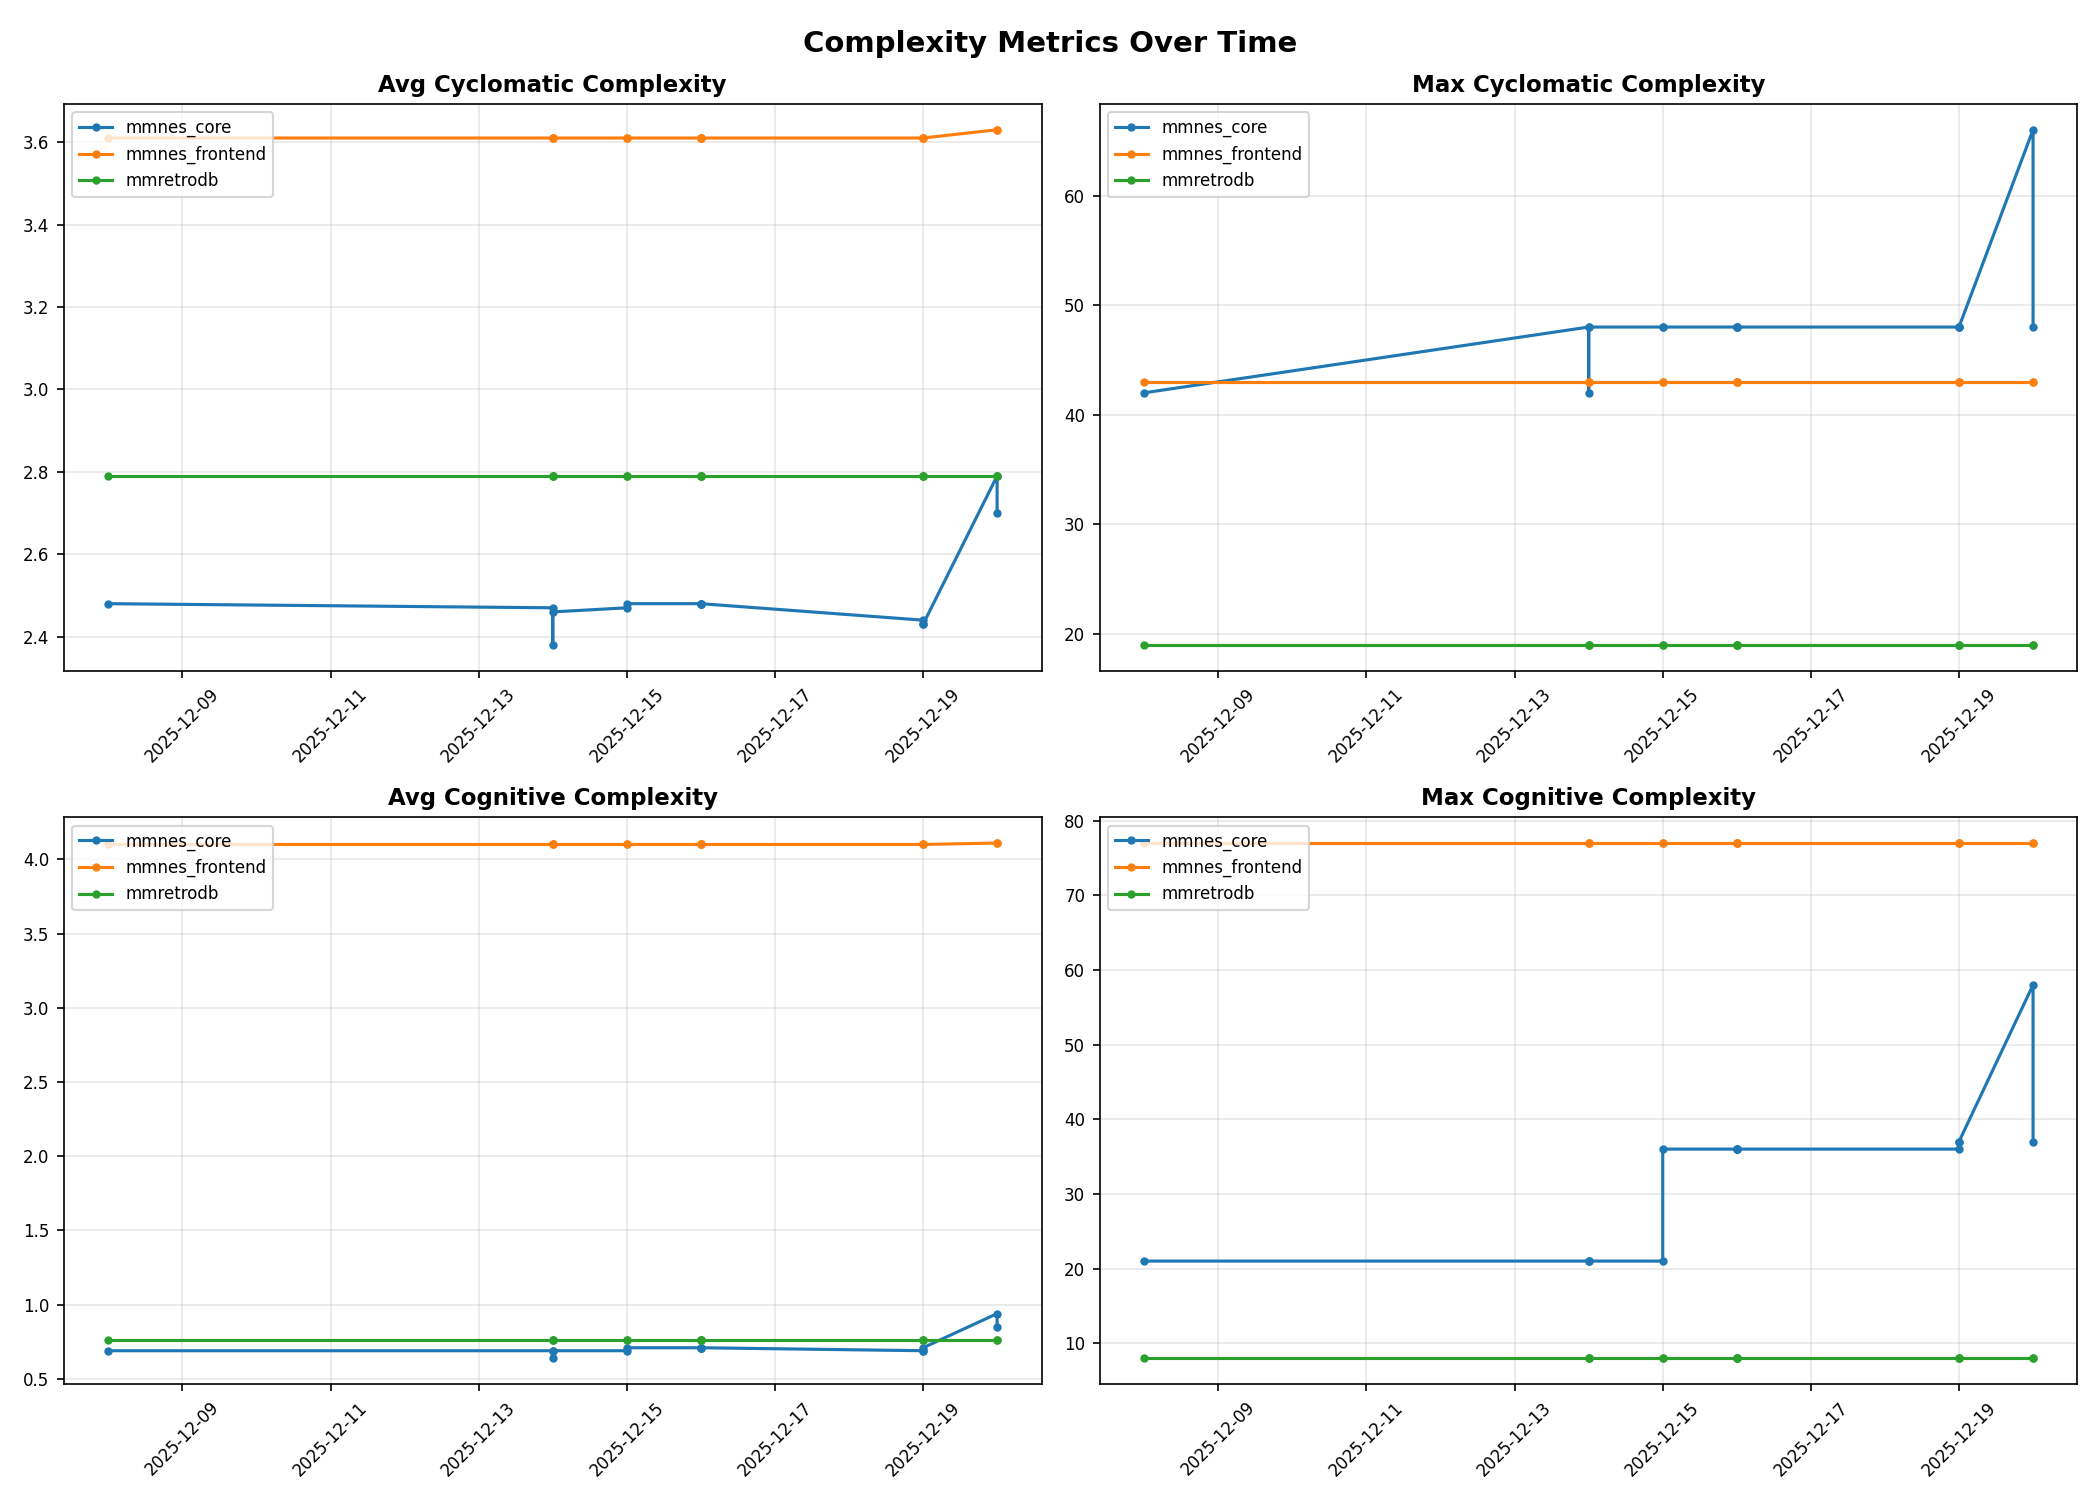
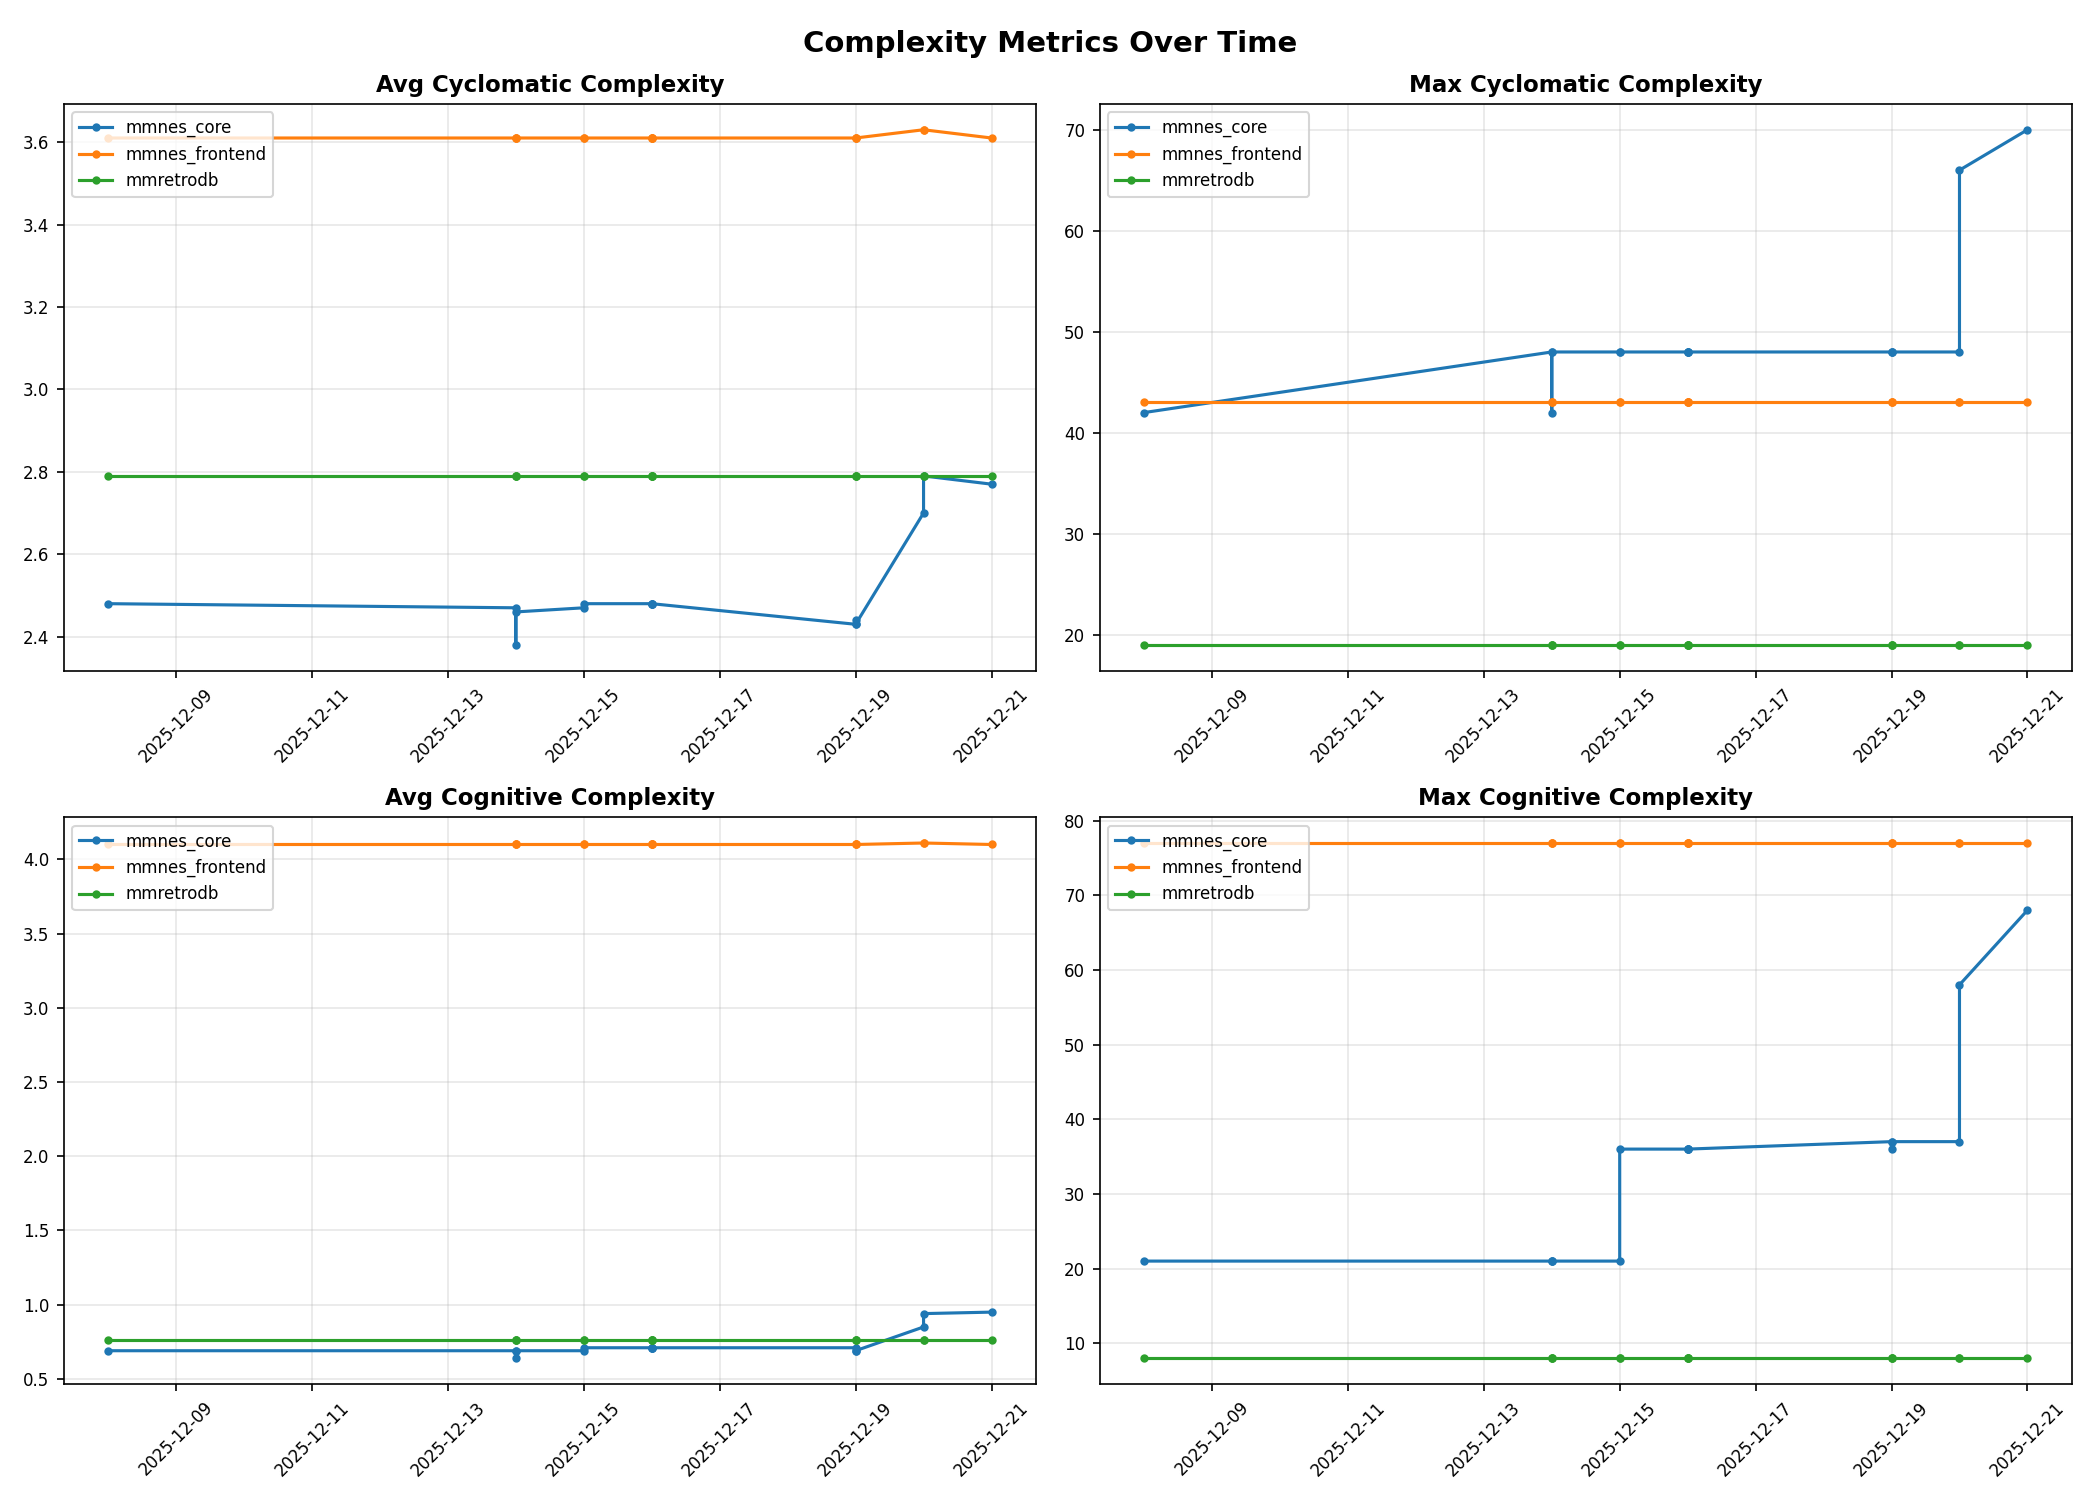
Update metrics data [skip ci]

diff --git a/metrics/data/METRICS_SUMMARY.md b/metrics/data/METRICS_SUMMARY.md
@@ -1,15 +1,15 @@
 # Code Quality Metrics Summary
 
-*Generated: 2025-12-20 11:58:39*
+*Generated: 2025-12-21 10:21:36*
 
-**Latest commit:** `f311087` on `main`
+**Latest commit:** `33f94ad` on `main`
 
 ## Per-Crate Metrics
 
 | Crate | LOC | Functions | Avg Cyclo | Coverage | Human % | Claude % |
 |-------|-----|-----------|-----------|----------|---------|----------|
-| mmnes_core | 21384 | 1260 | 2.7 | 46.0% | 67.6% | 32.4% |
-| mmnes_frontend | 4059 | 293 | 3.6 | 0.0% | 99.4% | 0.6% |
+| mmnes_frontend | 4044 | 293 | 3.6 | 0.0% | 98.9% | 1.1% |
+| mmnes_core | 23418 | 1329 | 2.8 | 46.8% | 57.4% | 42.6% |
 | mmretrodb | 596 | 58 | 2.8 | 77.0% | 100.0% | 0.0% |
 
 ## Definitions
